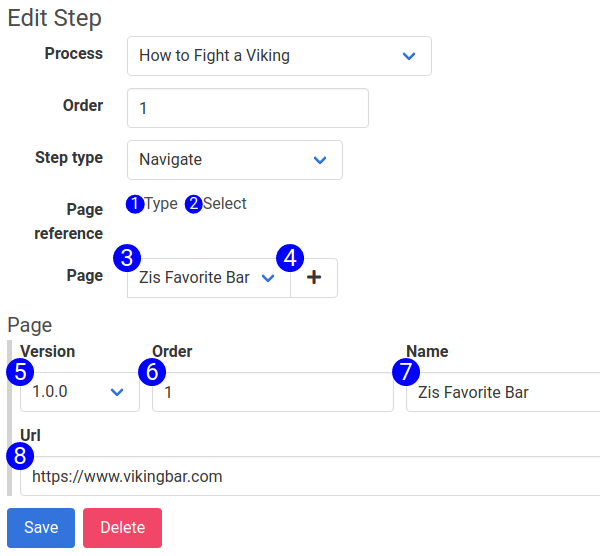
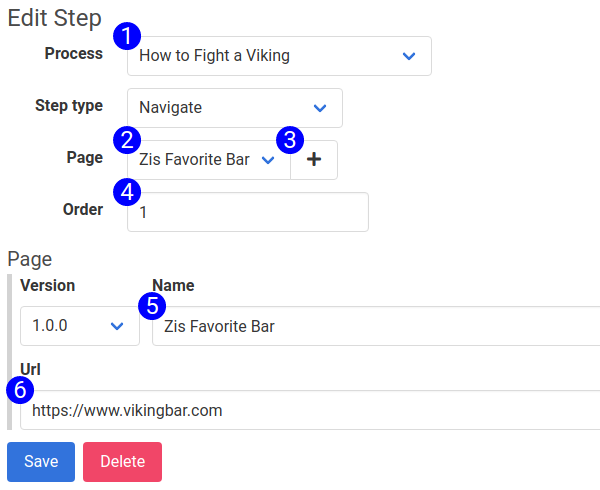
Form updates

diff --git a/docs/step_form_navigate.md b/docs/step_form_navigate.md
@@ -5,13 +5,11 @@ The Navigate Step type will navigate to the given URL in the browser. Selecting 
 ![New Step Form Reference](images/step_form_reference_navigation.png)
 
 1. **Type URL** - Selecting the type option will open a text input you can use to type in a URL to navigate to. This option is not recommended as UserDocs won't be able to associate elements to a page object, or determine what page you are on for the rest of the process.  This option may be deprecated in a future release.
-2. **Select** - Picking the select options will cause the page selector, and new page button to render. If you use the select option, all steps you create after this one will automatically be associated with the last page you navigated to. Additionally, all elements and annotations you create will be associated with the page, so that you can manage what elements and annotations belong to which pages in your application.
-3. **Page Selector** - Use this dropdown to pick any page that exists in the project.
-4. **Create Page** - Clicking the new page button will create a blank page, and empty the fields in the page subform.
-5. **Version Selector** - This field will be deprecated.  It shouldn't be used.
-6. **Order** - This field will be deprecated. It shouldn't be used.
-7. **Name** - A descriptive name for the page. Will be used in the UI.
-8. **Url** - The URL for the page. This is the address that UserDocs will navigate to when the step is executed. Should be entered in the form protocol://address.com, like https://www.google.com
+2. **Page Select Input** - Use this dropdown to pick any page that exists in the project.
+3. **Create Page** - Clicking the new page button will create a blank page, and empty the fields in the page subform.
+4. **Order** - This field will be deprecated. It shouldn't be used.
+5. **Name** - A descriptive name for the page. Will be used in the UI.
+6. **Url** - The URL for the page. This is the address that UserDocs will navigate to when the step is executed. Should be entered in the form protocol://address.com, like https://www.google.com
 
 ## Accessible at
 `/steps/:id/edit`
